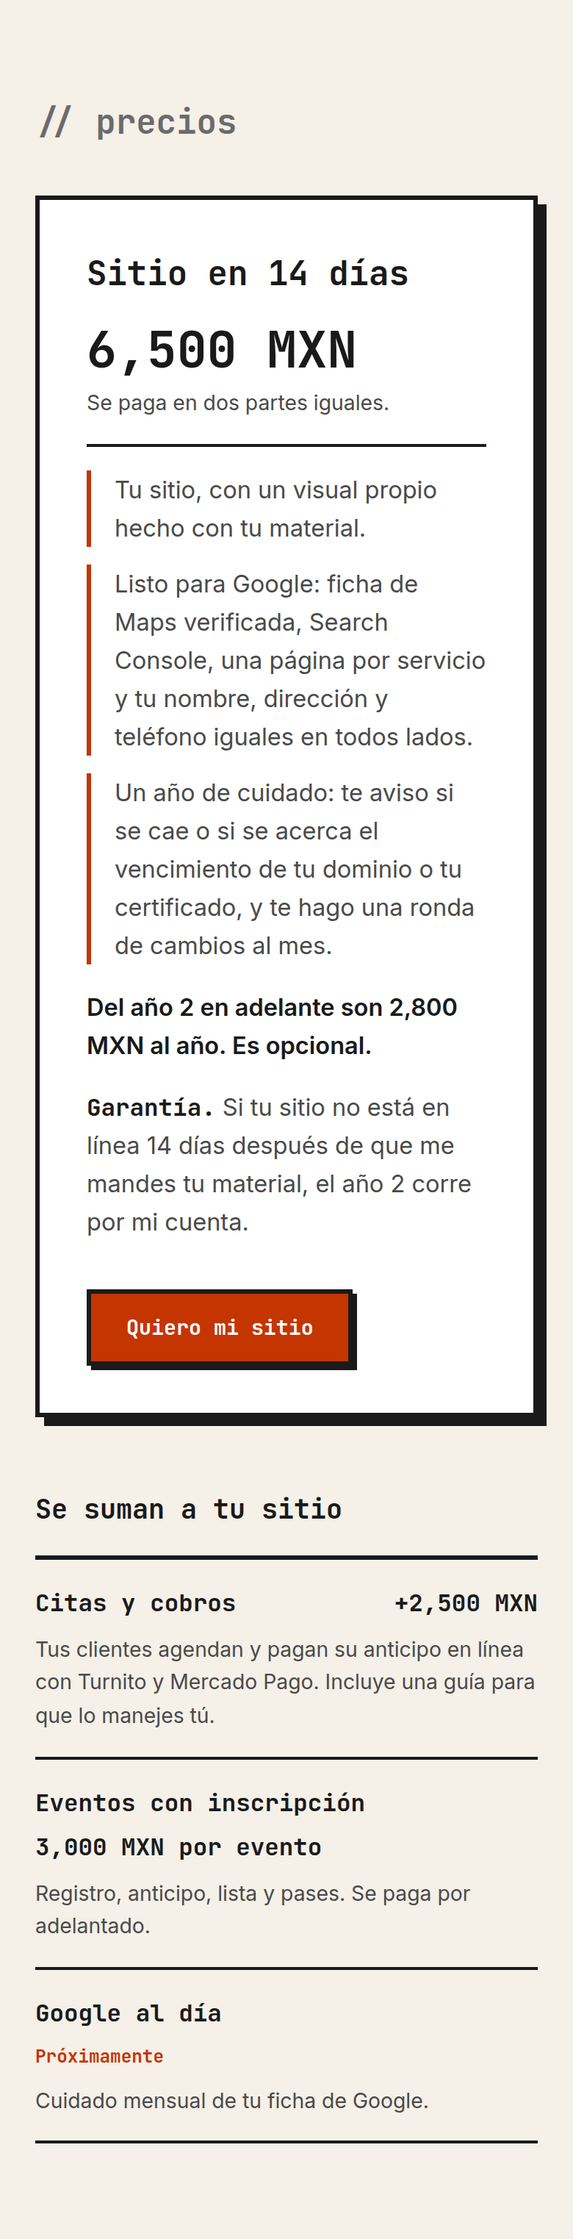
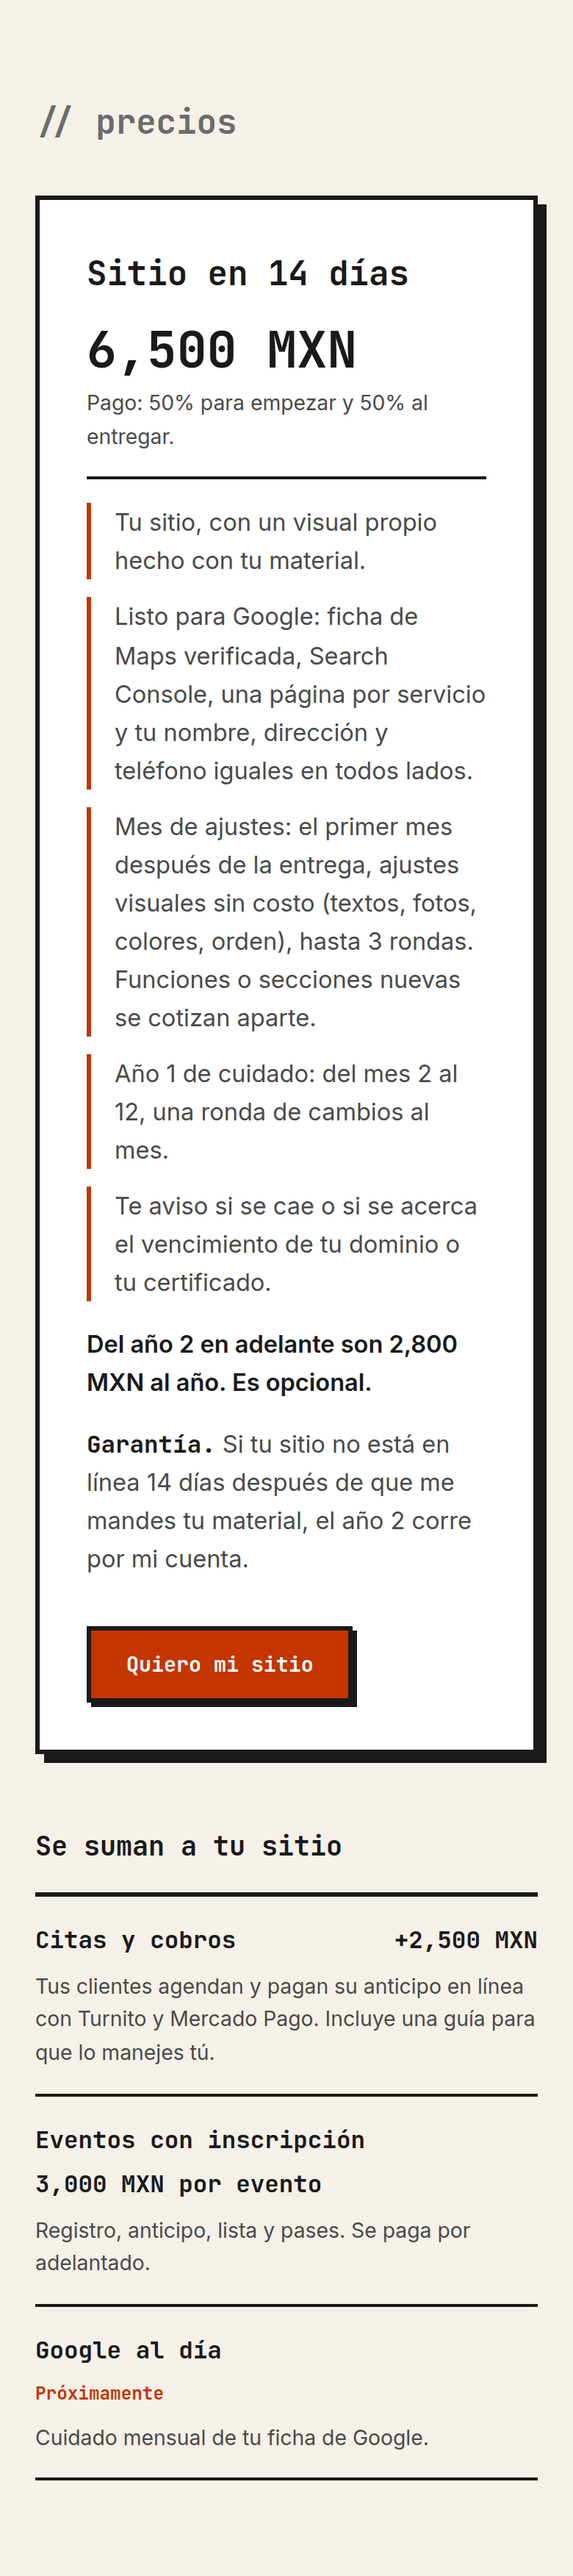
content(web): 50/50 payment line and adjustment month, es + en
Owner's lines via uncdrone (research doc ee432c3), verbatim: payment 50% to
start and 50% on delivery, a first month of free visual adjustments (up to 3
rounds), year 1 of care from month 2 to 12. The uptime and expiry alerts stay
as their own line so the care promise is not lost.

Claude-Session: https://claude.ai/code/session_01JDrAz8PRDkKof6gAjaTaAv

Changed region(s): [[0.0615, 0.0312, 0.9538, 0.9668]]

diff --git a/docs/design/DESIGN.md b/docs/design/DESIGN.md
@@ -48,8 +48,8 @@ Rows in `references.md` (ids `pricing`, `pricing-modules`, `pricing-copy`).
 | base card | `.brut-card` (3 px border, 6 px brut shadow, `--space-8` padding); hover lift switched off because it is information, not a link | T (card), same choice as the globe panel; shadow is the site's neobrutalist world (tell 19 does not apply) |
 | package name | "Sitio en 14 días", mono `--text-xl` 700 | R |
 | price | "6,500 MXN" mono `--text-2xl` 700, `nowrap` | R; type from T |
-| payment line | "Se paga en dos partes iguales" `--text-sm` `--color-fg-soft` | R ("50/50") |
-| includes | three plain list lines, 3 px `--color-accent-strong` left rule (same device as `ToolStrip` items) | R (what the base holds); T |
+| payment line | "Pago: 50% para empezar y 50% al entregar." `--text-sm` `--color-fg-soft` | R (ee432c3), owner 2026-11-06 21:53, verbatim |
+| includes | five plain list lines (visual, Google, Mes de ajustes, Año 1 de cuidado, uptime and expiry alerts; the adjustment and care lines are verbatim from the owner via uncdrone, R ee432c3), 3 px `--color-accent-strong` left rule (same device as `ToolStrip` items) | R (what the base holds); T |
 | renewal | "Del año 2 en adelante son 2,800 MXN al año. Es opcional." 600 | R |
 | guarantee | label "Garantía." mono + sentence: online 14 days after the material, or year 2 is free | R (keeps the "after the material" condition) |
 | CTA | `.brut-btn` "Quiero mi sitio" → `#contact` (es), `/en/#contact` (en); 181×53 at 390 | T (button), B (existing contact path) |
